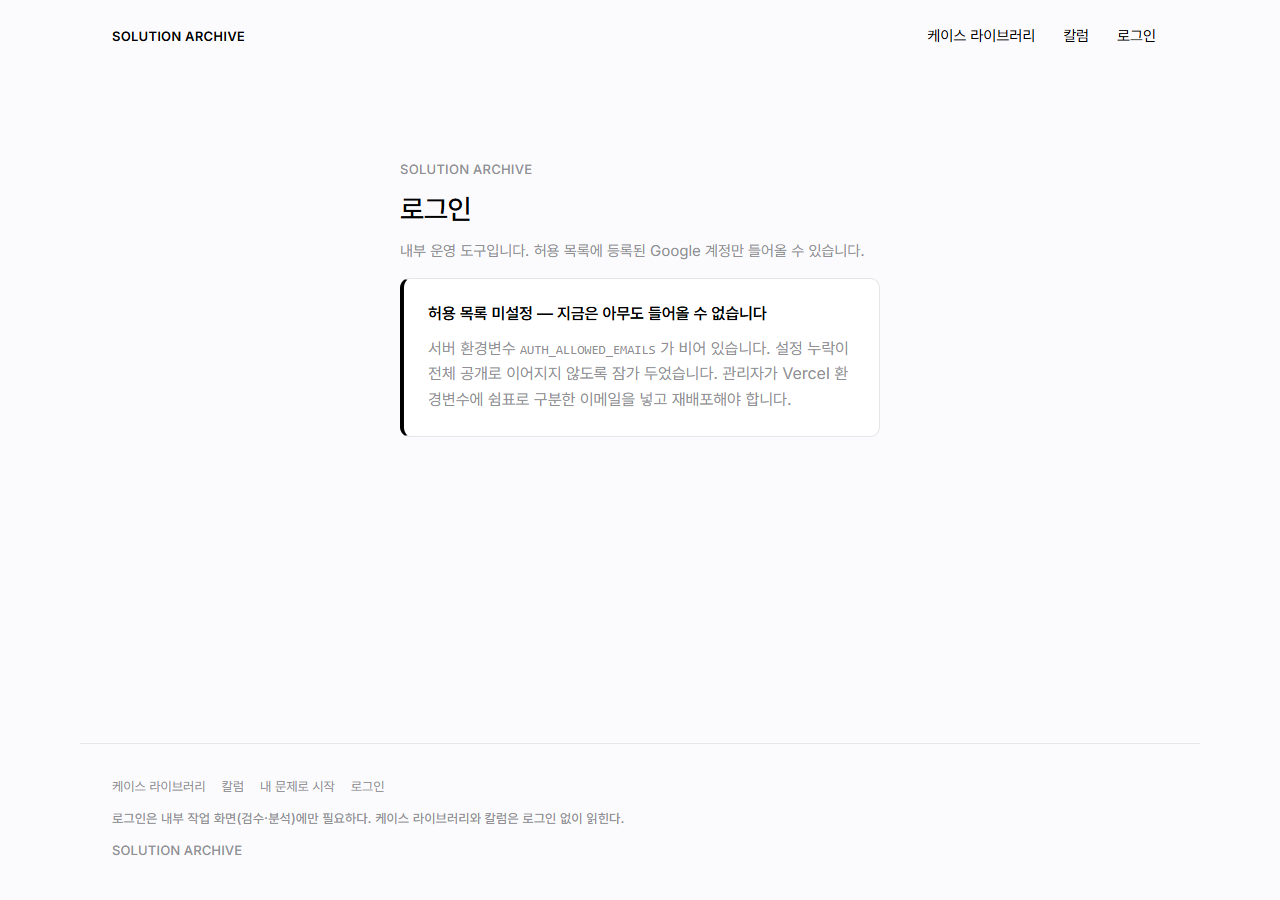
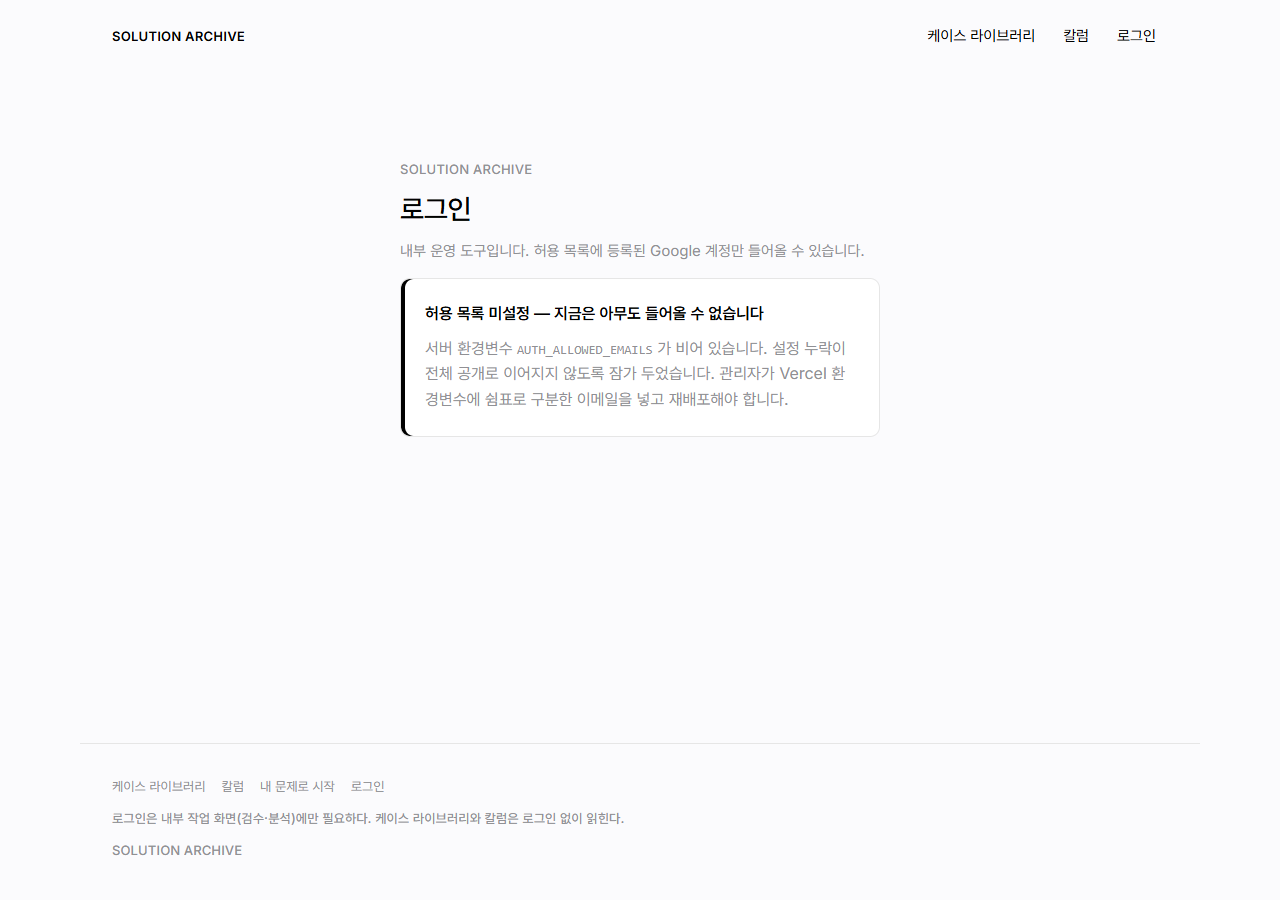
feat(pub): M1 /onboarding/quiz 토큰 v2 재입힘 — 선택지 카드 행동 줄·점수 디스플레이
- PubChoice: [A] 카드 하단 행동 줄('이걸 고른다 →'), 호버에 테두리 진하게. 카드 전체가 버튼이라는 걸
  글자로도 말한다(아이콘만 두지 않는다). 퀴즈 API·session_id·자동 제출은 그대로.
- 결과: 패널 안 점수 칸의 윗선·여백을 빼고 점수를 display-sm 으로. 주 CTA 에 화살표.
- .pub-panel--alert: 굵은 선을 테두리 대신 안쪽 그림자로 — 테두리는 흰 섬 바깥에 그려져
  다크 캔버스 위에서 검은 선이 사라졌다(퀴즈 오류 화면에서 확인).
- 스크린샷: 선택지·결과 화면은 퀴즈 API 를 Playwright route-mock 으로 찍었다(DB 없이).
  mock 이라 공유 이미지는 빈 1x1 이다. 전(before) 컷은 앞 두 커밋의 pub.css 위에서 찍혔다.

Changed region(s): [[0.3125, 0.3422, 0.6562, 0.4667]]

diff --git a/app/_pub/pub.css b/app/_pub/pub.css
@@ -231,11 +231,11 @@
 }
 /* 알림(오류·잠김 안내). 색이 아니라 왼쪽 굵은 선으로 구분한다.
    M1: 카드 반경(20)에서는 왼쪽 굵은 선이 모서리를 따라 휘어 괄호처럼 보였다 —
-   알림은 컨트롤 반경(10)으로 낮춰 선이 곧게 서게 한다. 떠 있는 카드가 아니라 문장이라 그림자도 없다. */
+   알림은 컨트롤 반경(10)으로 낮춰 선이 곧게 서게 한다. 선은 테두리가 아니라 안쪽 그림자다 —
+   테두리는 흰 섬 **바깥**에 그려져 다크 캔버스(검정) 위에서 검은 선이 사라졌다(퀴즈 오류 화면). */
 .pub-panel--alert {
-  border-left: 4px solid var(--pub-island-ink);
   border-radius: var(--pub-round-control);
-  box-shadow: none;
+  box-shadow: inset 4px 0 0 var(--pub-island-ink);
 }
 
 /* ── 버튼 ─────────────────────────────────────────────── */
@@ -455,14 +455,28 @@
   transition: transform var(--pub-motion-move) var(--pub-ease),
               box-shadow var(--pub-motion-move) var(--pub-ease);
 }
-.pub-choice:hover { box-shadow: var(--pub-lift-hover); }
+.pub-choice:hover { border-color: var(--pub-ink-faint); box-shadow: var(--pub-lift-hover); }
 .pub-choice:active { transform: translateY(1px); }
 .pub-choice:disabled { cursor: progress; opacity: 0.6; }
 .pub-choice-text {
+  flex: 1;
   font-size: var(--pub-size-text);
   line-height: var(--pub-leading-text);
   overflow-wrap: anywhere;
 }
+
+.pub-choice-cta {
+  display: inline-flex;
+  align-items: center;
+  gap: var(--pub-gap-2);
+  font-size: var(--pub-size-label);
+  font-weight: var(--pub-weight-label);
+  letter-spacing: var(--pub-tracking-label);
+  line-height: var(--pub-leading-label);
+  color: var(--pub-accent);
+}
+.pub-choice-cta .pub-icon { transition: transform var(--pub-motion-move) var(--pub-ease); }
+.pub-choice:hover .pub-choice-cta .pub-icon { transform: translateX(2px); }
 
 /* ── 칼럼 목록 카드 ───────────────────────────────────── */
 .pub-column-list { display: flex; flex-direction: column; gap: var(--pub-gap-3); }
@@ -561,6 +575,14 @@
   font-size: var(--pub-size-display-sm);
   letter-spacing: var(--pub-tracking-display-sm);
   line-height: var(--pub-leading-display-sm);
+}
+/* 패널 안 숫자 한 칸은 패널이 이미 틀이다 — 윗선·위아래 여백을 빼고 점수를 디스플레이로 키운다. */
+.pub-quiz .pub-panel .pub-stat { border-top: 0; padding: 0; }
+.pub-quiz .pub-panel .pub-stat-value {
+  font-size: var(--pub-size-display-sm);
+  letter-spacing: var(--pub-tracking-display-sm);
+  line-height: var(--pub-leading-display-sm);
+  font-weight: var(--pub-weight-display);
 }
 .pub-share-img {
   width: 100%;

diff --git a/app/onboarding/quiz/quiz-client.tsx b/app/onboarding/quiz/quiz-client.tsx
@@ -13,6 +13,7 @@ import { PubButtonLink } from '../../_pub/components/Button'
 import { PubChoice } from '../../_pub/components/PubChoice'
 import { PubProgress } from '../../_pub/components/PubProgress'
 import { Stat, StatRow } from '../../_pub/components/Stat'
+import { IconArrowRight } from '../../_pub/icons'
 
 // Stage 6 — 온보딩 "감 점수" 퀴즈. 화면만 `app/_pub` 로 옮겼다(2026-09-23 A3).
 // **동작은 한 줄도 바뀌지 않았다**: 문제 조회(GET /api/onboarding/quiz?session_id=),
@@ -173,7 +174,7 @@ export function QuizClient() {
         {/* 점수만 보고 끝나면 퀴즈는 장난이 된다. 다음 한 걸음을 한 개만 크게 둔다. */}
         <div className="pub-actions">
           <PubButtonLink href="/analyze/new" variant="primary" size="lg">
-            이제 내 상품으로 해보기
+            이제 내 상품으로 해보기<IconArrowRight />
           </PubButtonLink>
           <PubButtonLink href="/cases" variant="ghost" size="lg">
             먼저 남의 사례 구경하기

diff --git a/app/_pub/components/PubChoice.tsx b/app/_pub/components/PubChoice.tsx
@@ -1,6 +1,7 @@
 'use client'
 
 import type { ReactNode } from 'react'
+import { IconArrowRight } from '../icons'
 
 /**
  * 선택지 한 장(온보딩 퀴즈의 A/B 카드). 진짜 `<button type="button">` 이라
@@ -22,6 +23,8 @@ export function PubChoice({ eyebrow, children, onClick, disabled }: {
     <button className="pub-choice" type="button" onClick={onClick} disabled={disabled}>
       {eyebrow ? <span className="pub-eyebrow">{eyebrow}</span> : null}
       <span className="pub-choice-text">{children}</span>
+      {/* [A] 카드 하단 행동 줄 — 카드 전체가 버튼이라는 것을 글자로도 말한다(아이콘만 두지 않는다). */}
+      <span className="pub-choice-cta">이걸 고른다<IconArrowRight /></span>
     </button>
   )
 }
